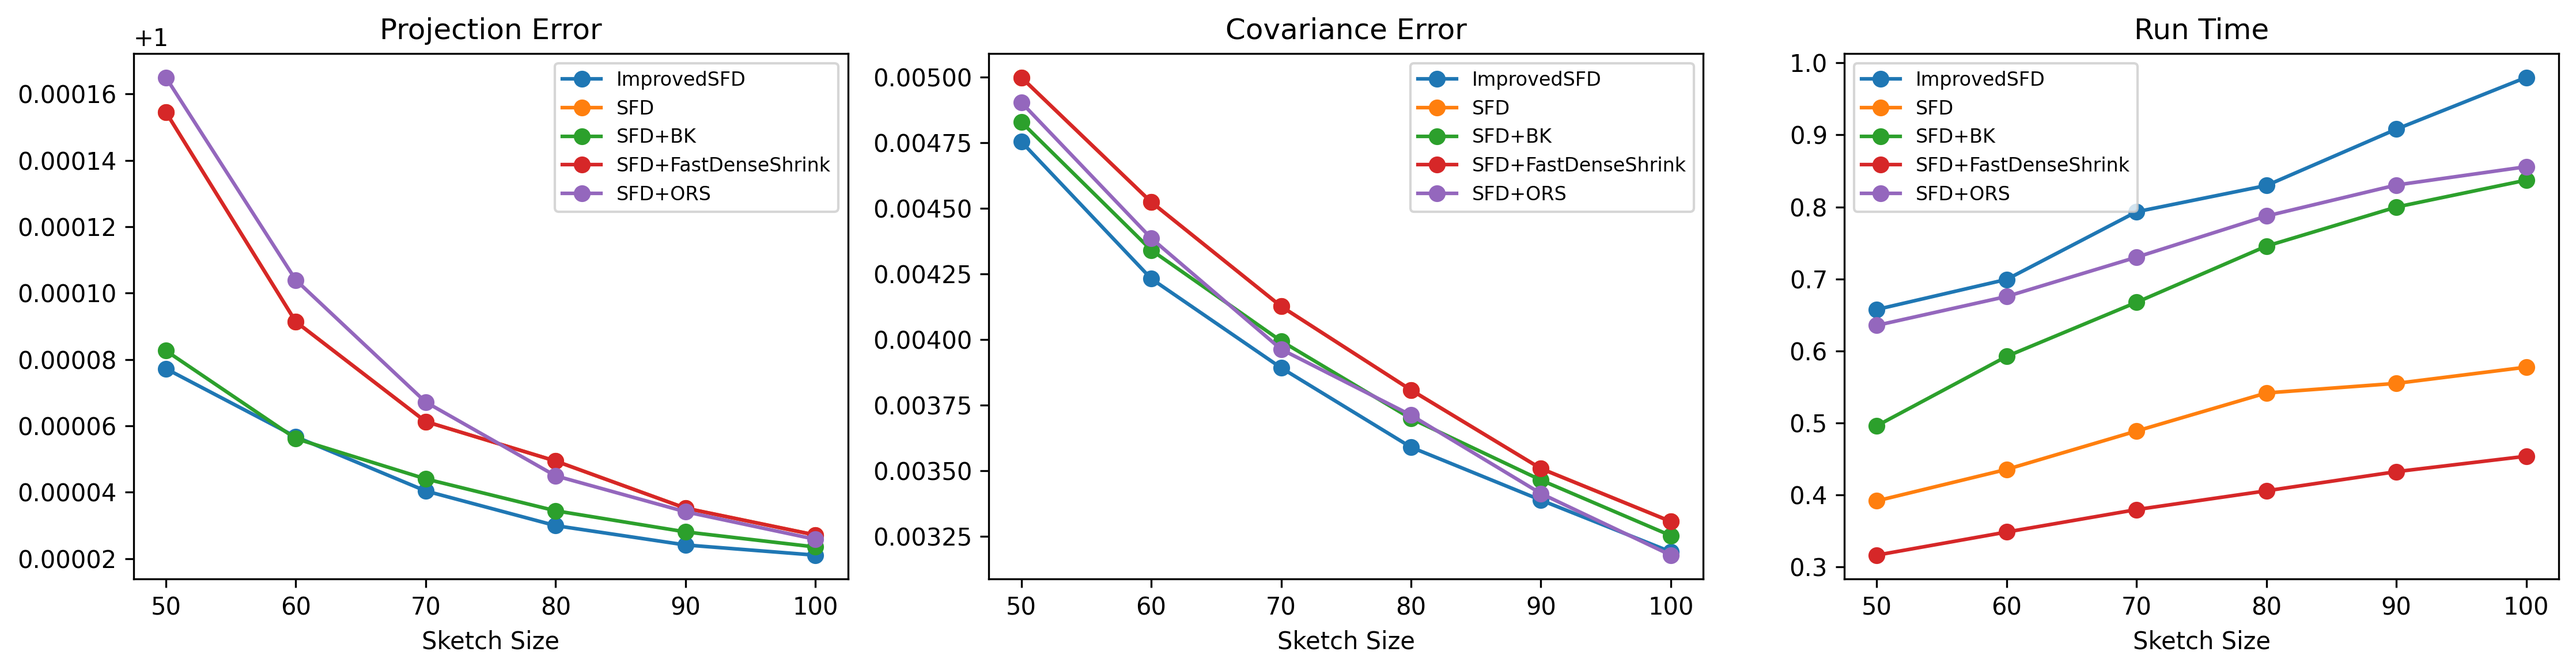
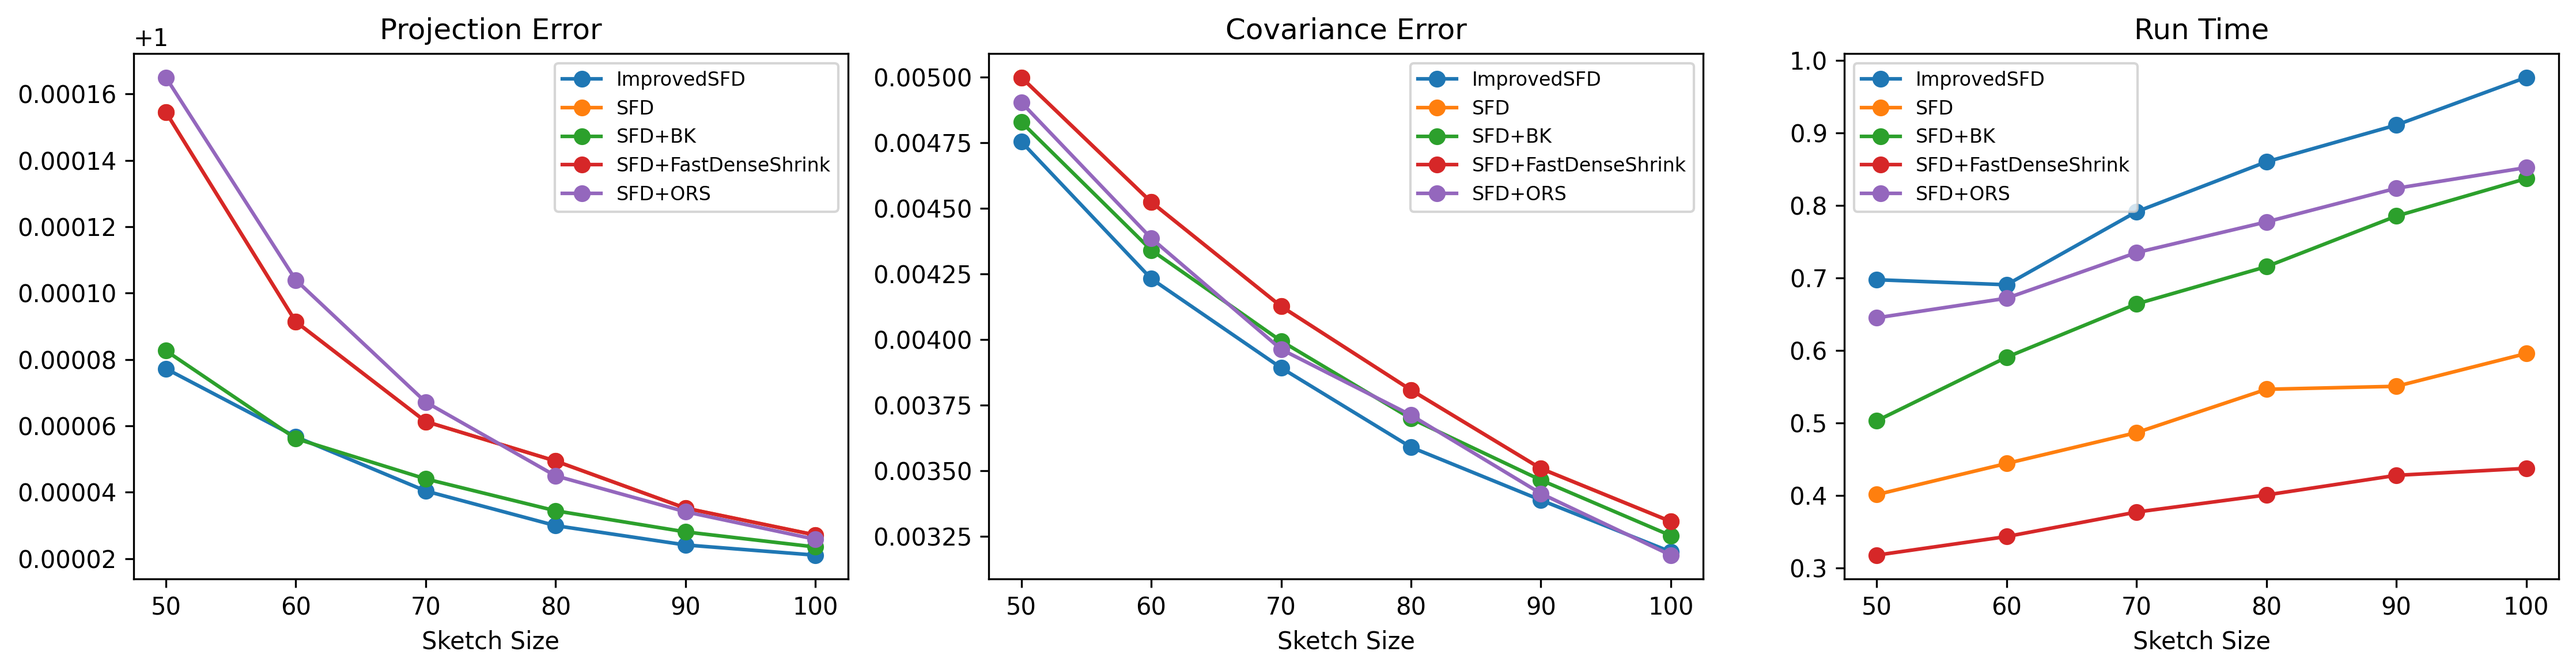
Remove unused param

diff --git a/src/algorithms/improved_spaese_frequent_directions.py b/src/algorithms/improved_spaese_frequent_directions.py
@@ -8,10 +8,7 @@ class ImprovedSparseFrequentDirections:
         l: int,
         n_iter: int = 2,
         random_state: int | None = 0,
-        buffer_mult: int = 1,
-        max_buffer_rows: int | None = None,
         use_approx_p_svd: bool = False,
-        p_oversample: int = 5,
         use_ors_admission: bool = False,
         candidate_block_size: int = 256,
         sample_epsilon: float = 0.5,
@@ -24,8 +21,6 @@ class ImprovedSparseFrequentDirections:
             raise ValueError("Sketch size l must be positive.")
         if n_iter <= 0:
             raise ValueError("n_iter must be positive.")
-        if buffer_mult <= 0:
-            raise ValueError("buffer_mult must be positive.")
         if candidate_block_size <= 0:
             raise ValueError("candidate_block_size must be positive.")
         if not (0.0 < sample_epsilon < 1.0):
@@ -41,10 +36,7 @@ class ImprovedSparseFrequentDirections:
 
         self.l = l
         self.n_iter = n_iter
-        self.buffer_mult = buffer_mult
-        self.max_buffer_rows = max_buffer_rows
         self.use_approx_p_svd = use_approx_p_svd
-        self.p_oversample = p_oversample
         self.use_ors_admission = use_ors_admission
         self.candidate_block_size = candidate_block_size
         self.sample_epsilon = sample_epsilon
@@ -288,7 +280,7 @@ class ImprovedSparseFrequentDirections:
 
     def _approx_top_svd_rows(self, P: np.ndarray, rank: int):
         r, d = P.shape
-        k = min(rank + self.p_oversample, r, d)
+        k = min(rank, r, d)
 
         Omega = self.rng.standard_normal((d, k))
         Y = P @ Omega

diff --git a/ablation.py b/ablation.py
@@ -39,9 +39,7 @@ class ImprovedSFDWithBlockKrylovOnly(SparseFrequentDirections):
             l=self.l,
             n_iter=self.n_iter,
             random_state=None,
-            buffer_mult=1,
             use_approx_p_svd=False,
-            p_oversample=5,
         )
         helper.rng = self.rng
         Z = helper._block_krylov_iteration(A_buffer, l_eff)
@@ -148,7 +146,6 @@ def parse_args():
     parser.add_argument("--head-prob", type=float, default=0.9, help="Synthetic head probability.")
     parser.add_argument("--seed", type=int, default=42, help="Synthetic random seed.")
     parser.add_argument("--n-iter", type=int, default=2, help="Iteration count.")
-    parser.add_argument("--buffer-mult", type=int, default=1, help="ImprovedSFD buffer multiplier.")
     return parser.parse_args()
 
 
@@ -285,9 +282,7 @@ def build_algorithm_factories(args):
             l=l,
             n_iter=args.n_iter,
             random_state=args.seed,
-            buffer_mult=args.buffer_mult,
             use_approx_p_svd=False,
-            p_oversample=5,
             use_ors_admission=True,
             candidate_block_size=256,
             sample_epsilon=0.5,
